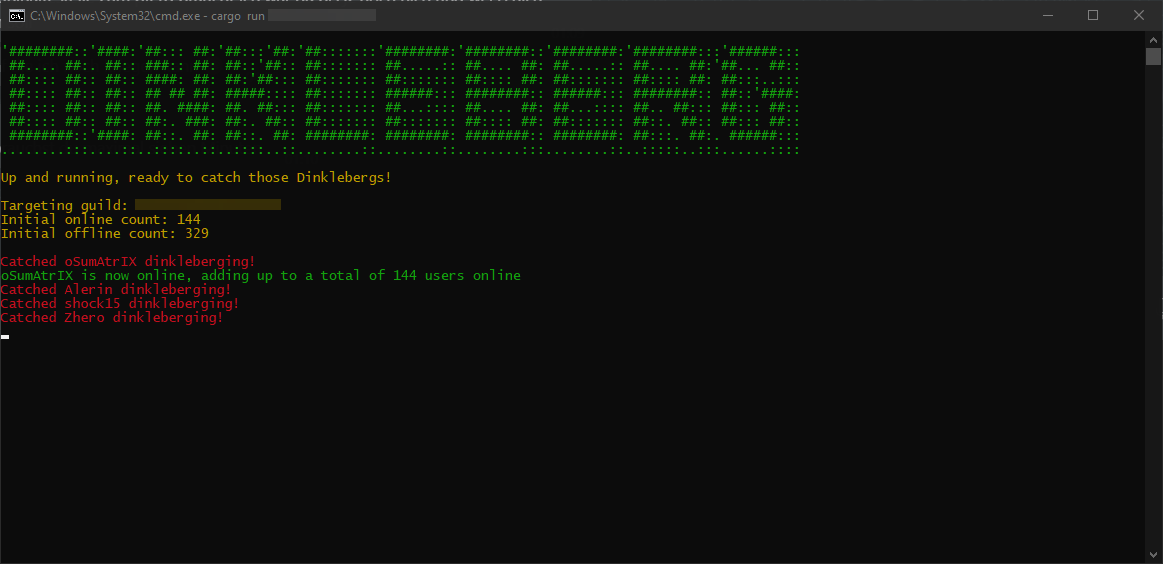
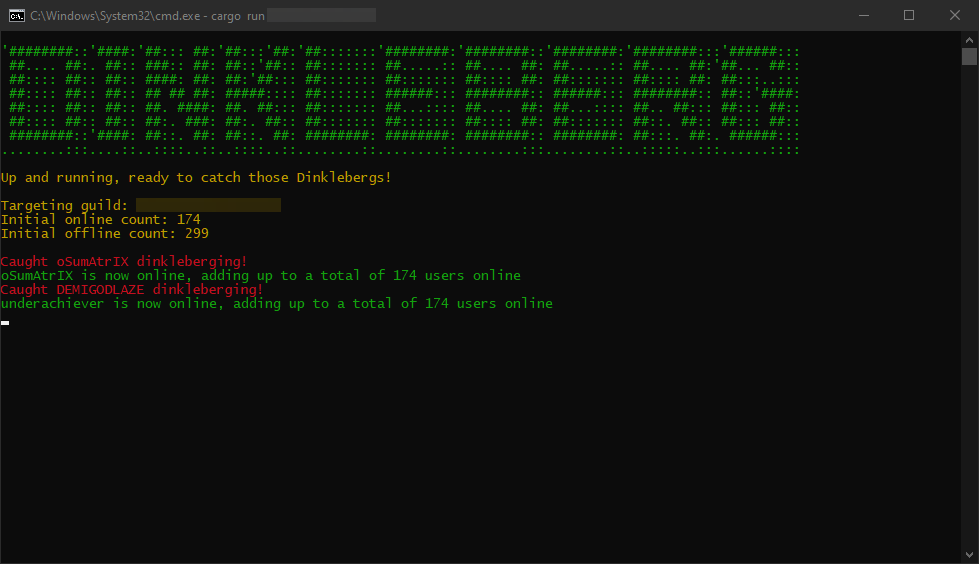
Fix typo mentioned in issue #1

diff --git a/src/handler.rs b/src/handler.rs
@@ -136,7 +136,7 @@ impl EventHandler for Handler {
 				);
 			} else {
 				// user set to invisible
-				println!("{}", format!("Catched {} dinkleberging!", user).red());
+				println!("{}", format!("Caught {} dinkleberging!", user).red());
 			}
 			tracked_users.online -= 1;
 		}
